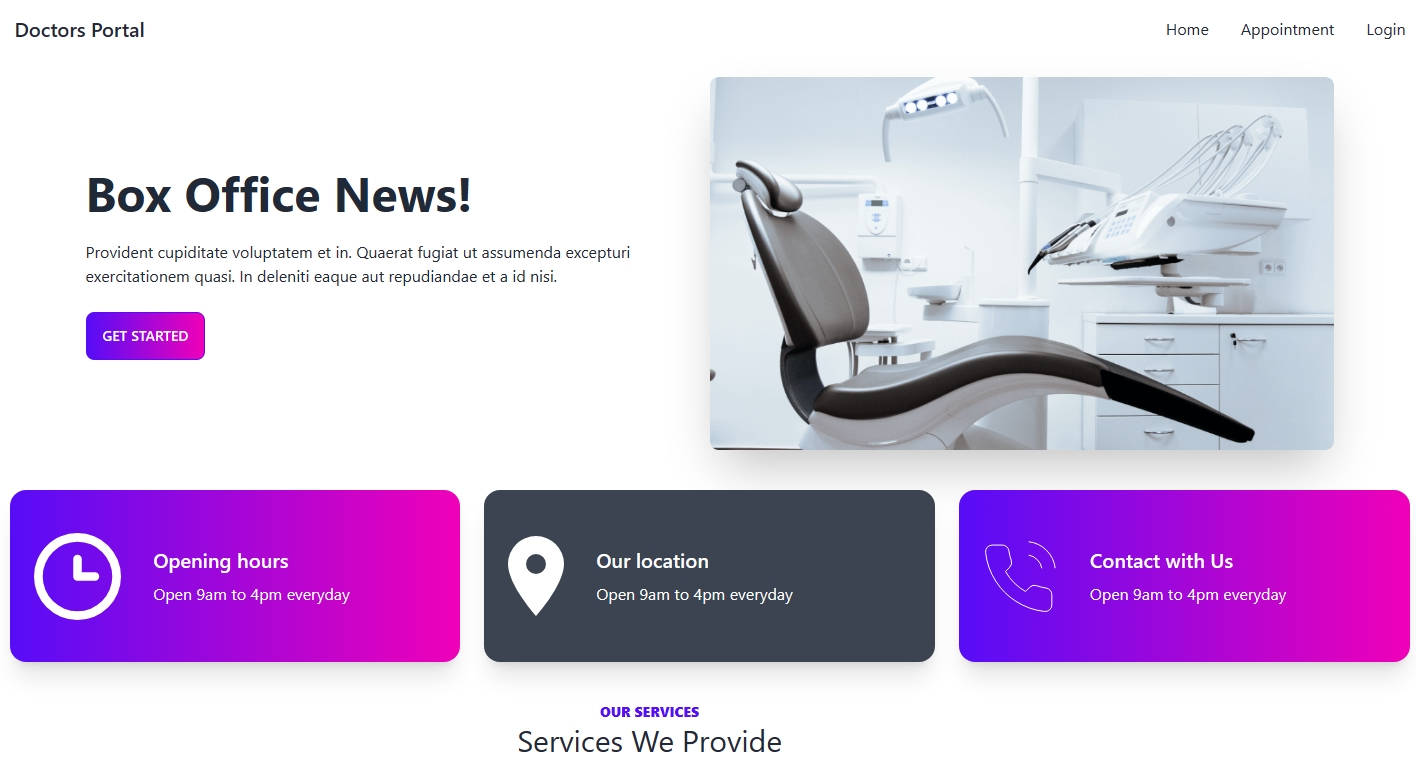
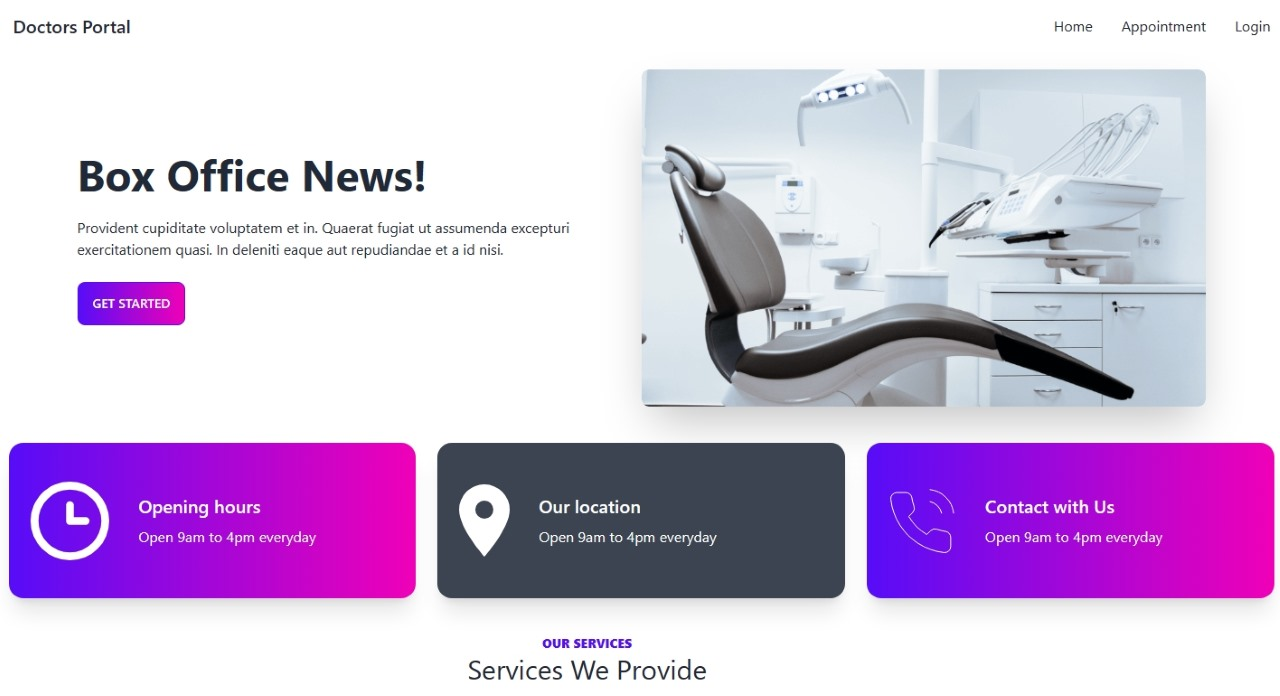
more update done

diff --git a/src/component/Contact/Contact.js b/src/component/Contact/Contact.js
@@ -1,7 +1,7 @@
 import React, { useRef, useState } from "react"
 import "./Contact.css"
 import Lottie from "lottie-react";
-import contactLotti3 from './../pic/contactLotti3.json'
+import contactLotti3 from './../img/contactLotti3.json'
 import emailjs from '@emailjs/browser';
 
 const Contact = () => {
@@ -34,18 +34,21 @@ const Contact = () => {
                 </div>
                 <div className='details'>
                   <h1>Md Hasanul Karim</h1>
-                  <p>MERN Stack Developer</p>
-                  <p>I am available for freelance work. Connect with me via and call in to my account.Thanks for reading me.</p> <br />
+                  <p style={{fontWeight: '600'}}>MERN Stack Developer</p>
+                  <p>I am available for any freelance work or full/part time job. I enjoy connecting with people and exchanging ideas, so please get in touch with me at my social link. Thanks for visiting me.</p> <br />
                   <p>Phone: +8801862086965</p>
-                  <p>Email: hasanulkarimh@gamil.com</p> <br />
+                  <p>Email: hasanulkarimh@gmail.com</p> <br />
                   <span>FIND WITH ME</span>
                   <div className='button f_flex'>
                     <a href="https://www.facebook.com/hasanulkarim.hasan1/" target="_blank" rel="noopener noreferrer"><button className='btn_shadow'>
                       <i class='fab fa-facebook-f'></i>
                     </button></a>
-                    <a href="https://www.instagram.com/hasanulhasan/" target="_blank" rel="noopener noreferrer"><button className='btn_shadow'>
-                      <i className='fab fa-instagram'></i>
-                    </button></a>
+                    <a href="https://github.com/hasanulhasan" target="_blank" rel="noreferrer"><button className='btn_shadow'>
+                    <i class='fab fa-github'></i>
+                  </button></a>
+                  <a href="https://www.linkedin.com/in/md-hasanul-karim-49284910a/" target="_blank" rel="noreferrer"><button className='btn_shadow'>
+                    <i class='fab fa-linkedin-in'></i>
+                  </button></a>
                     <a href="https://t.me/hasanulhasan" target="_blank" rel="noopener noreferrer">
                       <button className='btn_shadow'>
                         <i className='fab fa-telegram'></i>

diff --git a/src/component/Hero/Home.js b/src/component/Hero/Home.js
@@ -1,9 +1,12 @@
 import React from "react"
 import "./Home.css"
-import hero from "../pic/herono1.png"
-import skill1 from "../pic/js.png"
-import skill2 from "../pic/react.png"
-import skill3 from "../pic/node-js.png"
+import hero from "../img/herono.png"
+import skill1 from "../img/js.png"
+import skill2 from "../img/react.png"
+import skill3 from "../img/node-js.png"
+import fb from "../img/facebook.png"
+import linkedIn from "../img/linkedin.png"
+import github from "../img/github.png"
 import { Typewriter } from "react-simple-typewriter"
 
 const Home = () => {
@@ -29,15 +32,12 @@ const Home = () => {
               <div className='col_1'>
                 <h4>FIND WITH ME</h4>
                 <div className='button'>
-                  <a href="https://www.facebook.com/hasanulkarim.hasan1/" target="_blank" rel="noreferrer"><button className='btn_shadow'>
-                    <i class='fab fa-facebook-f'></i>
-                  </button></a>
-                  <a href="https://github.com/hasanulhasan" target="_blank" rel="noreferrer"><button className='btn_shadow'>
-                    <i class='fab fa-github'></i>
-                  </button></a>
-                  <a href="https://www.linkedin.com/in/md-hasanul-karim-49284910a/" target="_blank" rel="noreferrer"><button className='btn_shadow'>
-                    <i class='fab fa-linkedin-in'></i>
-                  </button></a>
+                  <a href="https://www.facebook.com/hasanulkarim.hasan1/" target="_blank" rel="noreferrer">
+                    <button className='btn_shadow'><img src={fb} alt='' /></button></a>
+                  <a href="https://github.com/hasanulhasan" target="_blank" rel="noreferrer">
+                    <button className='btn_shadow'><img src={github} alt='' /></button></a>
+                  <a href="https://www.linkedin.com/in/md-hasanul-karim-49284910a/" target="_blank" rel="noreferrer">
+                  <button className='btn_shadow'><img src={linkedIn} alt='' /></button></a>
                 </div>
               </div>
               <div className='col_1'>

diff --git a/src/component/Portfolio/Portfolio_data.js b/src/component/Portfolio/Portfolio_data.js
@@ -1,11 +1,11 @@
-import mobileMarket from './../img/mobile-market.png'
-import learnEngineering from './../img/learn-engineering.png'
-import learningTime from './../img/learning-time.png'
+import mobileMarket from './../img/mobile-market.jpg'
+import eagleEngineering from './../img/eagle-engineering.jpg'
+import learningTime from './../img/learning-time.jpg'
 import alphaAcademy from './../img/alpha-academy.jpg'
 import helloHotel from './../img/hello-hotel.jpg'
 import photoGallery from './../img/photo-gallery.jpg'
-import bookTown from './../img/bookTown.png'
-import quantumByte from './../img/quantum-byte.png'
+import bookTown from './../img/bookTown.jpg'
+import quantumByte from './../img/quantum-byte.jpg'
 import doctorPortal from './../img/doctor-portal.jpg'
 
 const Portfolio_data = [
@@ -63,7 +63,7 @@ const Portfolio_data = [
     totalLike: "750",
     title: "Eagle Engineering",
     subTitle: "Engineering service related website",
-    image: learnEngineering,
+    image: eagleEngineering,
     live_server: 'https://eagle-engineering.web.app/',
     client: 'https://github.com/hasanulhasan/eagle-engineering',
     server: 'https://github.com/hasanulhasan/eagle-engineering-server',
@@ -144,9 +144,9 @@ const Portfolio_data = [
     title: "Doctor Portal",
     subTitle: "Website for dentists information appointment",
     image: doctorPortal,
-    live_server: '',
-    client: '',
-    server: '',
+    live_server: 'https://doctors-portal-ebc8a.web.app/',
+    client: 'https://github.com/hasanulhasan/doctors-portal',
+    server: 'https://github.com/hasanulhasan/doctors-portal-server',
     desc_one: "User can book a particular date for appointment with doctor",
     desc_two: "Doctor can see the booking information from his Admin Dashboard",
     desc_three: "Information of Doctor can be seen on this site",

diff --git a/src/component/Portfolio/Portfolio.js b/src/component/Portfolio/Portfolio.js
@@ -17,24 +17,6 @@ const Portfolio = () => {
             {Portfolio_data.map((value, index) => {
               return <Card key={index} image={value.image} category={value.category} totalLike={value.totalLike} title={value.title} subTitle={value.subTitle} desc_one={value.desc_one} desc_two={value.desc_two} desc_three={value.desc_three} desc_four={value.desc_four} live_server={value.live_server} client={value.client} server={value.server} stacks={value.stacks} />
             })}
-
-            {/*<div className='box btn_shadow '>
-              <div className='img'>
-                  <img src='https://rainbowit.net/html/inbio/assets/images/portfolio/portfolio-01.jpg' alt='' />
-              </div>
-              <div className='category d_flex'>
-                  <span>Development</span>
-                  <label>
-                    <i className='far fa-heart'></i> 360
-                  </label>
-              </div>
-              <div className='title'>
-                  <h2>Mobile app landing design & Services</h2>
-                <a href='' className='arrow'>
-                  <i class='fas fa-arrow-right'></i>
-                </a>
-              </div>
-            </div>*/}
           </div>
         </div>
       </section>

diff --git a/src/component/Features/Features.js b/src/component/Features/Features.js
@@ -17,15 +17,6 @@ const Features = () => {
             {data.map((val, index) => {
               return <Card key={index} image={val.image} title={val.title} desc={val.desc} />
             })}
-
-            {/*<div className='box btn_shadow'>
-              <img src='https://img.icons8.com/glyph-neue/64/000000/polyline.png' alt='' />
-              <h2>Personal Portfolio April</h2>
-              <p>It uses a dictionary of over 200 Latin words, combined with a handful of model sentence.</p>
-              <a href=''>
-                <i class='fas fa-arrow-right'></i>
-              </a>
-            </div>*/}
           </div>
         </div>
       </section>

diff --git a/src/component/Features/Features-Api.js b/src/component/Features/Features-Api.js
@@ -7,7 +7,7 @@ const data = [
   },
   {
     id: 2,
-    image: "https://img.icons8.com/ios/40/000000/open-book.png",
+    image: "https://img.icons8.com/ios/64/000000/open-book.png",
     title: "Web Development",
     desc: "I can work with front and backend development with React, Node JS, Express JS and MongoDb technologies",
   },
@@ -31,7 +31,7 @@ const data = [
   },
   {
     id: 6,
-    image: "https://img.icons8.com/glyph-neue/50/000000/polyline.png ",
+    image: "https://img.icons8.com/glyph-neue/64/000000/polyline.png ",
     title: "Digital Marketing",
     desc: "I have some knowledge of Digital Marketing. I also do Facebook Marketing",
   },

diff --git a/src/component/Footer.js b/src/component/Footer.js
@@ -1,16 +1,16 @@
 import React from "react"
-import logo1 from "./pic/me3.png"
+import logo1 from "./img/me.png"
 import './Footer.css'
 
 const Footer = () => {
   return (
     <>
       <footer>
-        <div className='conatiner text-center top'>
+        <div className='text-center'>
           <div className='img footer'>
             <img src={logo1} alt='' />
           </div>
-          <p>© 2023. All rights reserved by Md Hasanul Karim</p>
+          <p>All rights reserved by Md Hasanul Karim. &nbsp;© 2023</p>
         </div>
       </footer>
     </>

diff --git a/src/component/Head/header.css b/src/component/Head/header.css
@@ -4,10 +4,11 @@ header {
 }
 
 header .container {
-  padding-top: 15px;
+  padding-top: 5px;
 }
 
 header .logo img {
+  margin-top: 5px;
   height: 70px;
   width: 70px;
 }
@@ -52,7 +53,7 @@ header ul li a:hover {
 }
 
 .header.active {
-  height: 12vh;
+  height: 10vh;
   position: fixed;
   top: 0;
   z-index: 1000;
@@ -119,5 +120,9 @@ header ul li a:hover {
 
   .header.active {
     height: 10vh;
+  }
+  header .logo img {
+    margin-top: 15px;
+    padding-top: 10px;
   }
 }

diff --git a/src/component/Blog/BlogApi.js b/src/component/Blog/BlogApi.js
@@ -1,6 +1,6 @@
-import programmingHero from './../pic/programming-hero.jpg'
-import bohubrihi from './../pic/bohubrihi.jpg'
-import bohubrihi2 from './../pic/bohubrihi-2.jpg'
+import programmingHero from './../img/programming-hero.jpg'
+import bohubrihi from './../img/bohubrihi.jpg'
+import bohubrihi2 from './../img/bohubrihi-2.jpg'
 
 const BlogApi = [
   {

diff --git a/src/component/Skill/Skill.css b/src/component/Skill/Skill.css
@@ -1,9 +1,7 @@
 .skills_section{
 	margin: auto;
 	width: 90%;
-	margin-top: 40px;
-	margin-bottom: 40px;
-	padding: 30px 5%;
+	padding: 15px 5%;
 	display: flex;
 	align-items: center;
 	justify-content: center;
@@ -215,6 +213,8 @@
   .skills_main{
 		grid-template-columns: repeat(1, 1fr);
 	}
-
+	.skills_section{
+		width: 100%;
+	}
 }
 

diff --git a/src/component/Contact/Contact.css b/src/component/Contact/Contact.css
@@ -22,6 +22,7 @@
 
 .Contact .details p {
   font-size: 17px;
+  text-align: justify;
 }
 
 .Contact .button {
@@ -66,5 +67,8 @@
   .Contact .right {
     width: 100%;
     margin-top: 50px;
+  }
+  .Contact button {
+    margin-right: 15px;
   }
 }

diff --git a/src/component/Hero/Home.css b/src/component/Hero/Home.css
@@ -111,4 +111,14 @@
   .hero p {
     margin-right: 20px;
   }
+  
+  .hero h1 {
+    font-size: 40px;
+    font-weight: bold;
+    margin-right: 20px;
+  }
+  .hero h2 {
+    font-size: 40px;
+    margin-right: 20px;
+  }
 }
